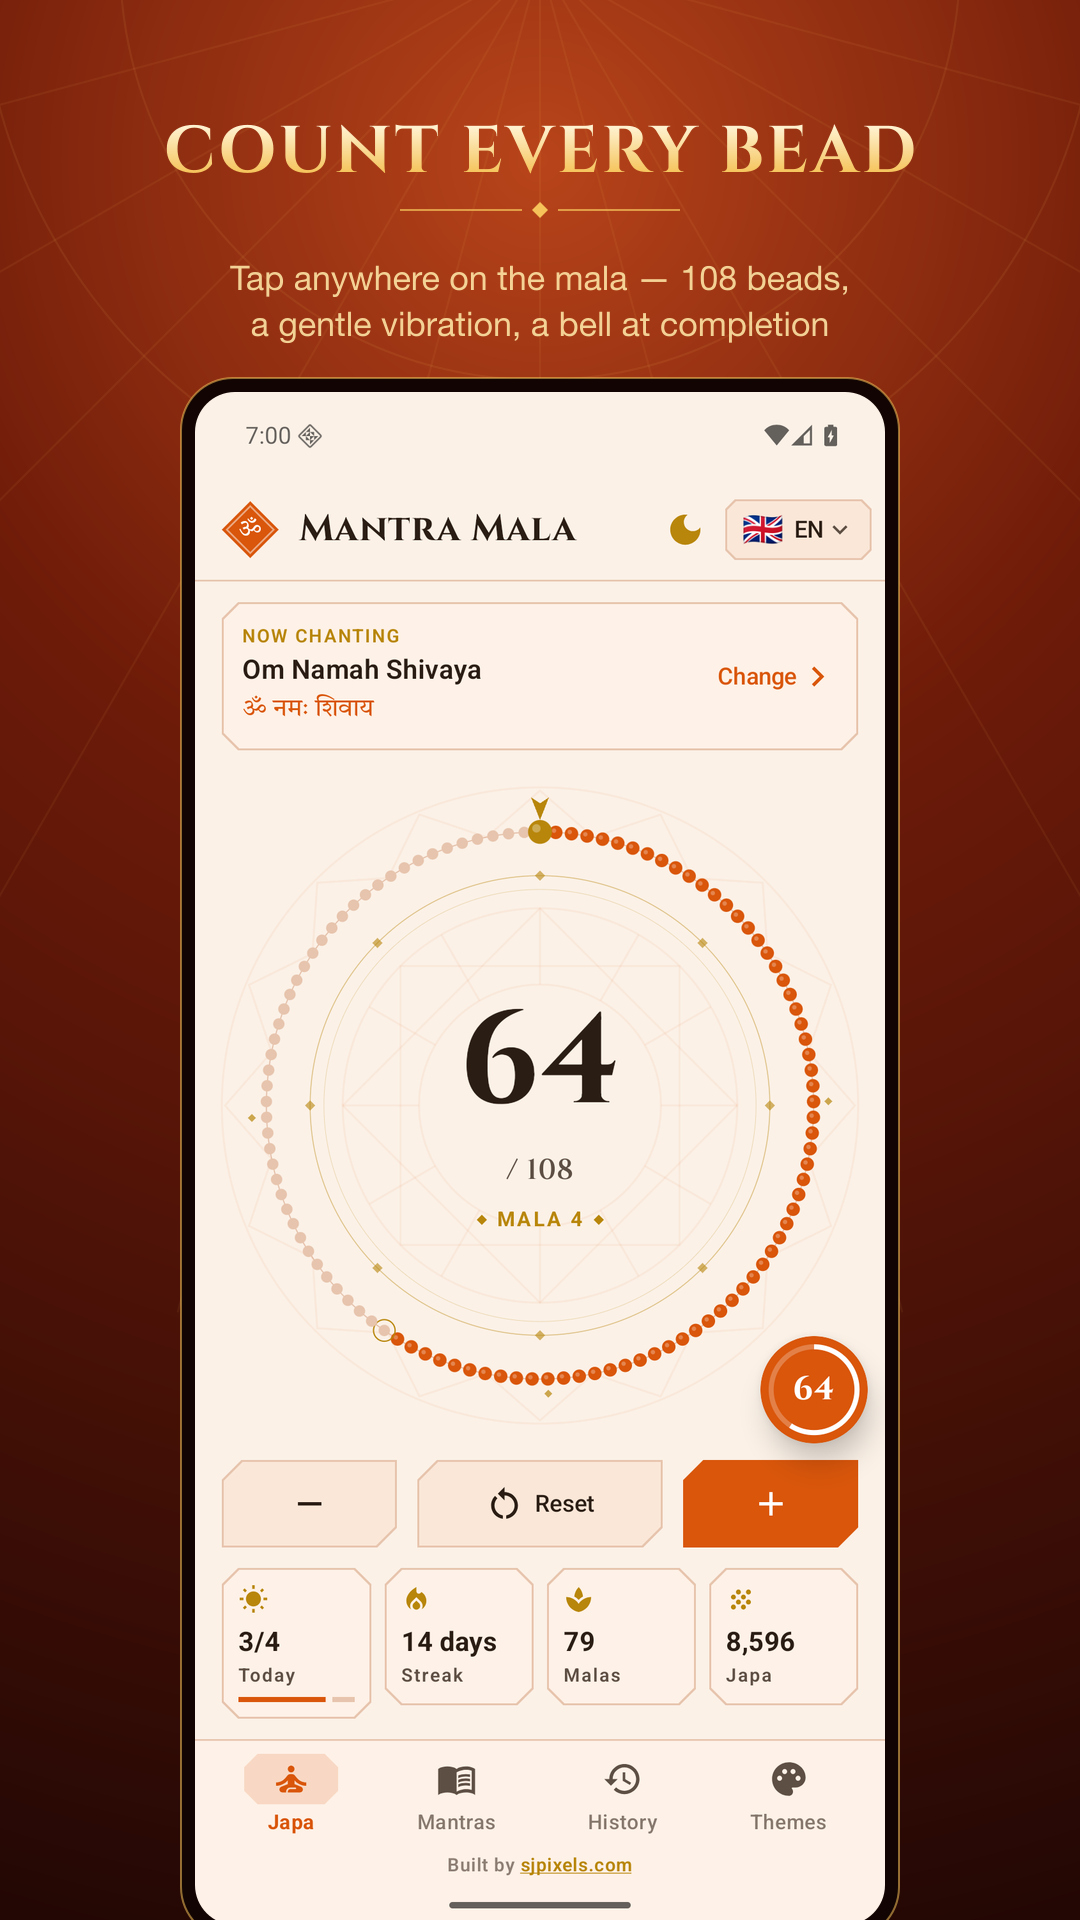
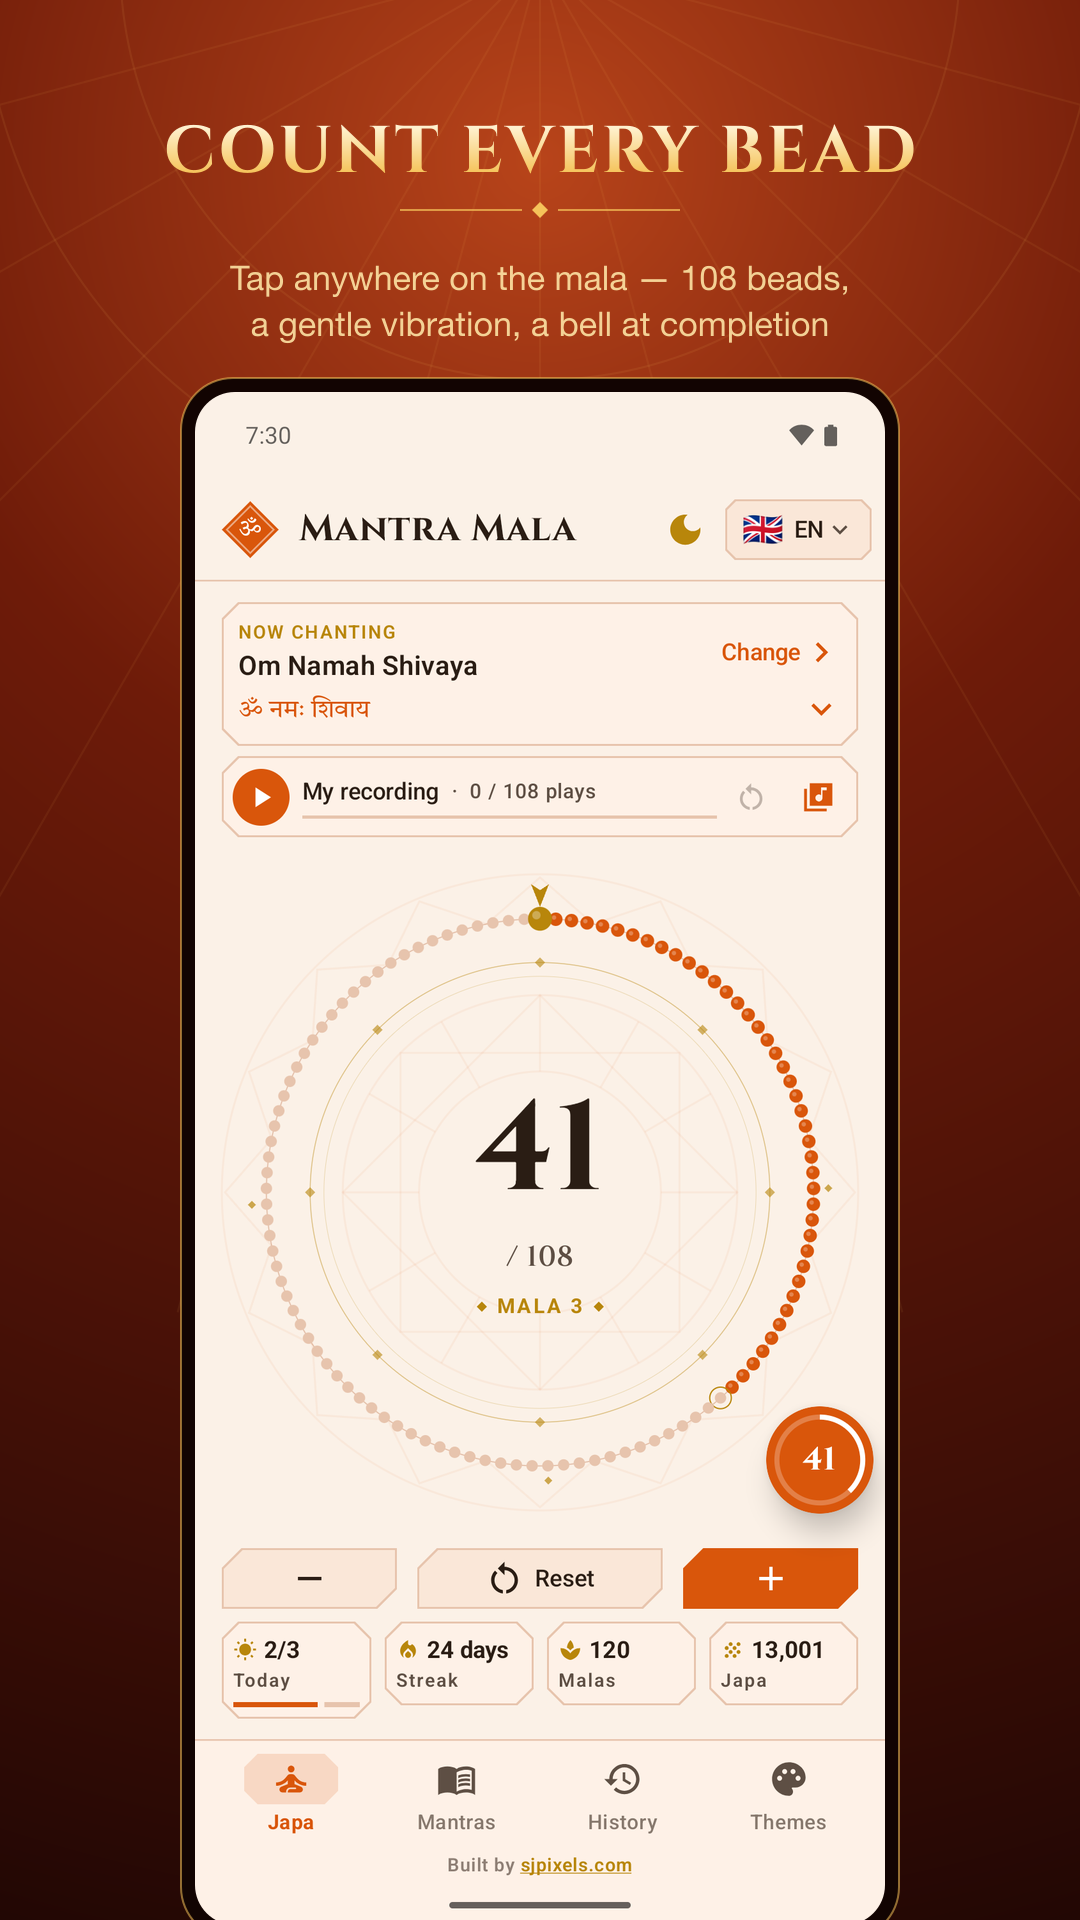
Refresh store screenshots for v1.1.1, add voice japa slide

diff --git a/tools/store_screens.py b/tools/store_screens.py
@@ -29,9 +29,10 @@ def text_path(font_path, text, size, wght=700, tracking=2.0):
 
 SLIDES = [
     ("a_japa_light.png", "COUNT EVERY BEAD", ["Tap anywhere on the mala — 108 beads,", "a gentle vibration, a bell at completion"]),
+    ("h_voice_light.png", "VOICE JAPA", ["Record or upload your own chant —", "it plays on repeat and counts every round"]),
     ("b_japa_dark.png", "CHANT BEFORE DAWN", ["Night mode and the Yantra counter", "for your Brahma Muhurta sadhana"]),
     ("c_mantras_light.png", "14 SACRED MANTRAS", ["Sanskrit, transliteration and meaning —", "or add the mantra your guru gave you"]),
-    ("d_history_light.png", "YOUR SADHANA, KEPT", ["Your lifetime record from day one —", "streaks, goals and every mala, on your phone"]),
+    ("d_history_light.png", "YOUR SADHANA, KEPT", ["Your lifetime record from day one —", "streaks, goals and japa for every mantra"]),
     ("e_themes_dark.png", "MAKE IT YOURS", ["9 sacred colour themes · 3 counter styles", "Day and night, one tap away"]),
     ("f_hindi_lotus.png", "YOUR LANGUAGE", ["हिन्दी · English · Русский · Español · Deutsch", "Français · 中文 · 日本語 · 한국어"]),
     ("g_overlay_home.png", "COUNT FROM ANYWHERE", ["A floating bead over any app —", "move it, resize it, colour it your way"]),

diff --git a/docs/PLAY_STORE_LAUNCH.md b/docs/PLAY_STORE_LAUNCH.md
@@ -8,7 +8,7 @@ This guide takes you from this repository to a live Play Store listing. Requirem
 |---|---|
 | App targets **Android 16 (API 36)**. Play has required this for new apps since 31 Aug 2026 | `app/build.gradle.kts` |
 | Release build with R8 shrinking, tested on an Android 16 emulator | `./gradlew bundleRelease` |
-| 512 px icon, 1024×500 feature graphic, 7 phone screenshots | `store/` |
+| 512 px icon, 1024×500 feature graphic, 8 phone screenshots | `store/` |
 | Title, short and full description (9 languages) | `store/LISTING.md` |
 | Privacy policy page | `docs/privacy-policy.html` |
 | No internet permission, no ads, no analytics. Permissions: `VIBRATE`, the optional floating-bead ones (`SYSTEM_ALERT_WINDOW`, foreground service "special use", notifications), and the optional voice-sample ones (`RECORD_AUDIO`, foreground service "media playback", `WAKE_LOCK`) | `app/src/main/AndroidManifest.xml` |
@@ -123,7 +123,7 @@ Copy everything from **`store/LISTING.md`**:
 1. App name, short description, full description.
 2. **App icon**: `store/icon-512.png`
 3. **Feature graphic**: `store/feature-graphic-1024x500.png`
-4. **Phone screenshots**: all seven files in `store/screenshots/` (order 01 → 07).
+4. **Phone screenshots**: all eight files in `store/screenshots/` (order 01 → 08).
 5. Optionally upload the same screenshots to the 7-inch and 10-inch tablet slots so the app is shown to tablet users.
 6. *Store settings*: Category **Lifestyle**, tags, contact email (required, public), and optionally a website.
 7. *Manage translations*: add Hindi and the other languages from `store/LISTING.md`. Optional, but it noticeably helps in India and abroad.
@@ -169,7 +169,7 @@ Then *Create new release* → choose the AAB from your library → release notes
 - [ ] `keystore.properties` filled in, `./gradlew bundleRelease` succeeds
 - [ ] Privacy policy edited (name, email) and hosted; URL opens in a browser
 - [ ] App content: privacy, access, ads, rating, audience, data safety, ad ID, gov, financial, health, **foreground service (special use + video)**
-- [ ] Store listing: text, icon, feature graphic, 7 screenshots, category, contact email
+- [ ] Store listing: text, icon, feature graphic, 8 screenshots, category, contact email
 - [ ] Internal test installed and checked on a real phone
 - [ ] Closed test: 12+ testers opted in for 14 consecutive days
 - [ ] Production access approved, then production release sent for review

diff --git a/README.md b/README.md
@@ -25,12 +25,13 @@ No server, no account, no ads, no analytics. The app doesn't even request the in
 
 <p align="center">
 <img src="store/screenshots/screenshot-01-japa-light.png" width="160" alt="Counter, light mode" title="Counter, light mode">
-<img src="store/screenshots/screenshot-02-japa-dark.png" width="160" alt="Counter, night mode" title="Counter, night mode">
-<img src="store/screenshots/screenshot-03-mantras-light.png" width="160" alt="Mantra library" title="Mantra library">
-<img src="store/screenshots/screenshot-04-history-light.png" width="160" alt="Lifetime history" title="Lifetime history">
-<img src="store/screenshots/screenshot-05-themes-dark.png" width="160" alt="Themes and settings" title="Themes and settings">
-<img src="store/screenshots/screenshot-06-hindi-lotus.png" width="160" alt="Hindi, lotus style" title="Hindi, lotus style">
-<img src="store/screenshots/screenshot-07-overlay-home.png" width="160" alt="Floating bead over other apps" title="Floating bead over other apps">
+<img src="store/screenshots/screenshot-02-voice-light.png" width="160" alt="Voice japa samples" title="Voice japa samples">
+<img src="store/screenshots/screenshot-03-japa-dark.png" width="160" alt="Counter, night mode with Yantra" title="Counter, night mode with Yantra">
+<img src="store/screenshots/screenshot-04-mantras-light.png" width="160" alt="Mantra library" title="Mantra library">
+<img src="store/screenshots/screenshot-05-history-light.png" width="160" alt="Lifetime history" title="Lifetime history">
+<img src="store/screenshots/screenshot-06-themes-dark.png" width="160" alt="Themes and settings" title="Themes and settings">
+<img src="store/screenshots/screenshot-07-hindi-lotus.png" width="160" alt="Hindi, lotus style" title="Hindi, lotus style">
+<img src="store/screenshots/screenshot-08-overlay-home.png" width="160" alt="Floating bead over other apps" title="Floating bead over other apps">
 </p>
 
 ## ✨ Features

diff --git a/store/LISTING.md b/store/LISTING.md
@@ -9,7 +9,7 @@ Lengths are already checked against Play's limits (title ≤ 30, short descripti
 |---|---|---|
 | App icon | `icon-512.png` | 512 × 512, 32-bit PNG |
 | Feature graphic | `feature-graphic-1024x500.png` | 1024 × 500, 24-bit PNG, no alpha |
-| Phone screenshots (7) | `screenshots/screenshot-01…07.png` | 1080 × 1920 (9:16), no alpha |
+| Phone screenshots (8, Play's maximum) | `screenshots/screenshot-01…08.png` | 1080 × 1920 (9:16), no alpha |
 
 You can reuse the same phone screenshots for **7-inch** and **10-inch tablet** slots if you want the app shown on tablets.
 Sources: `src/icon.svg`, `src/feature-graphic.svg`; regenerate with `tools/assets.py` and `tools/store_screens.py`.
